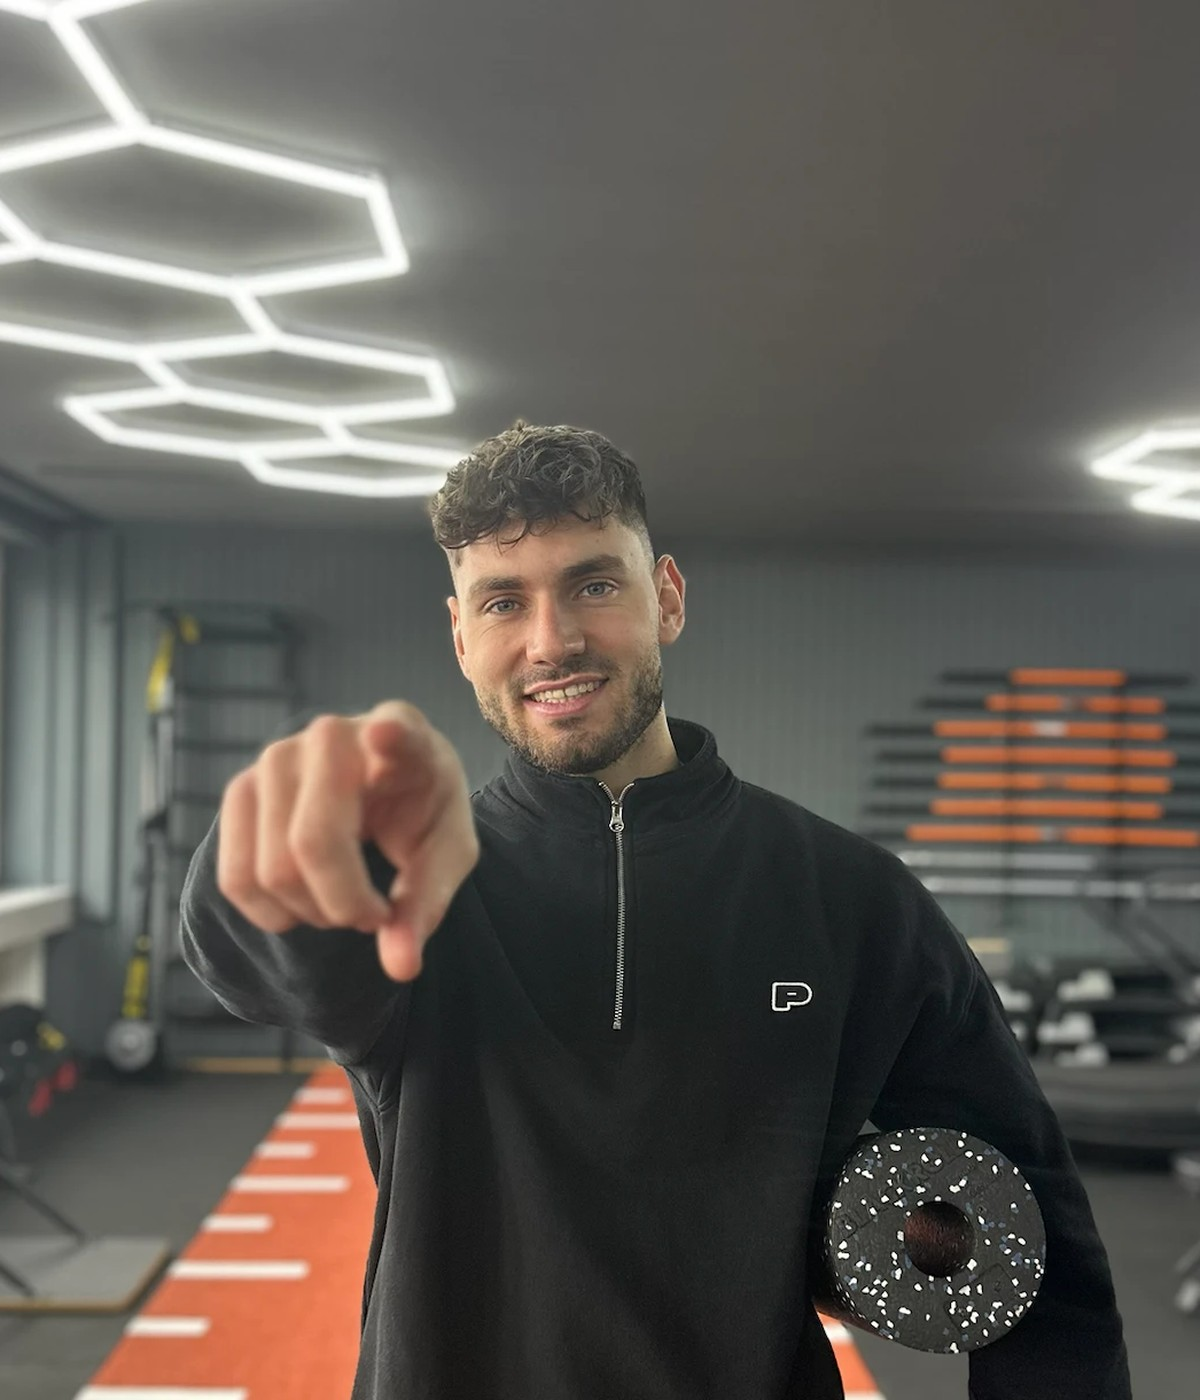
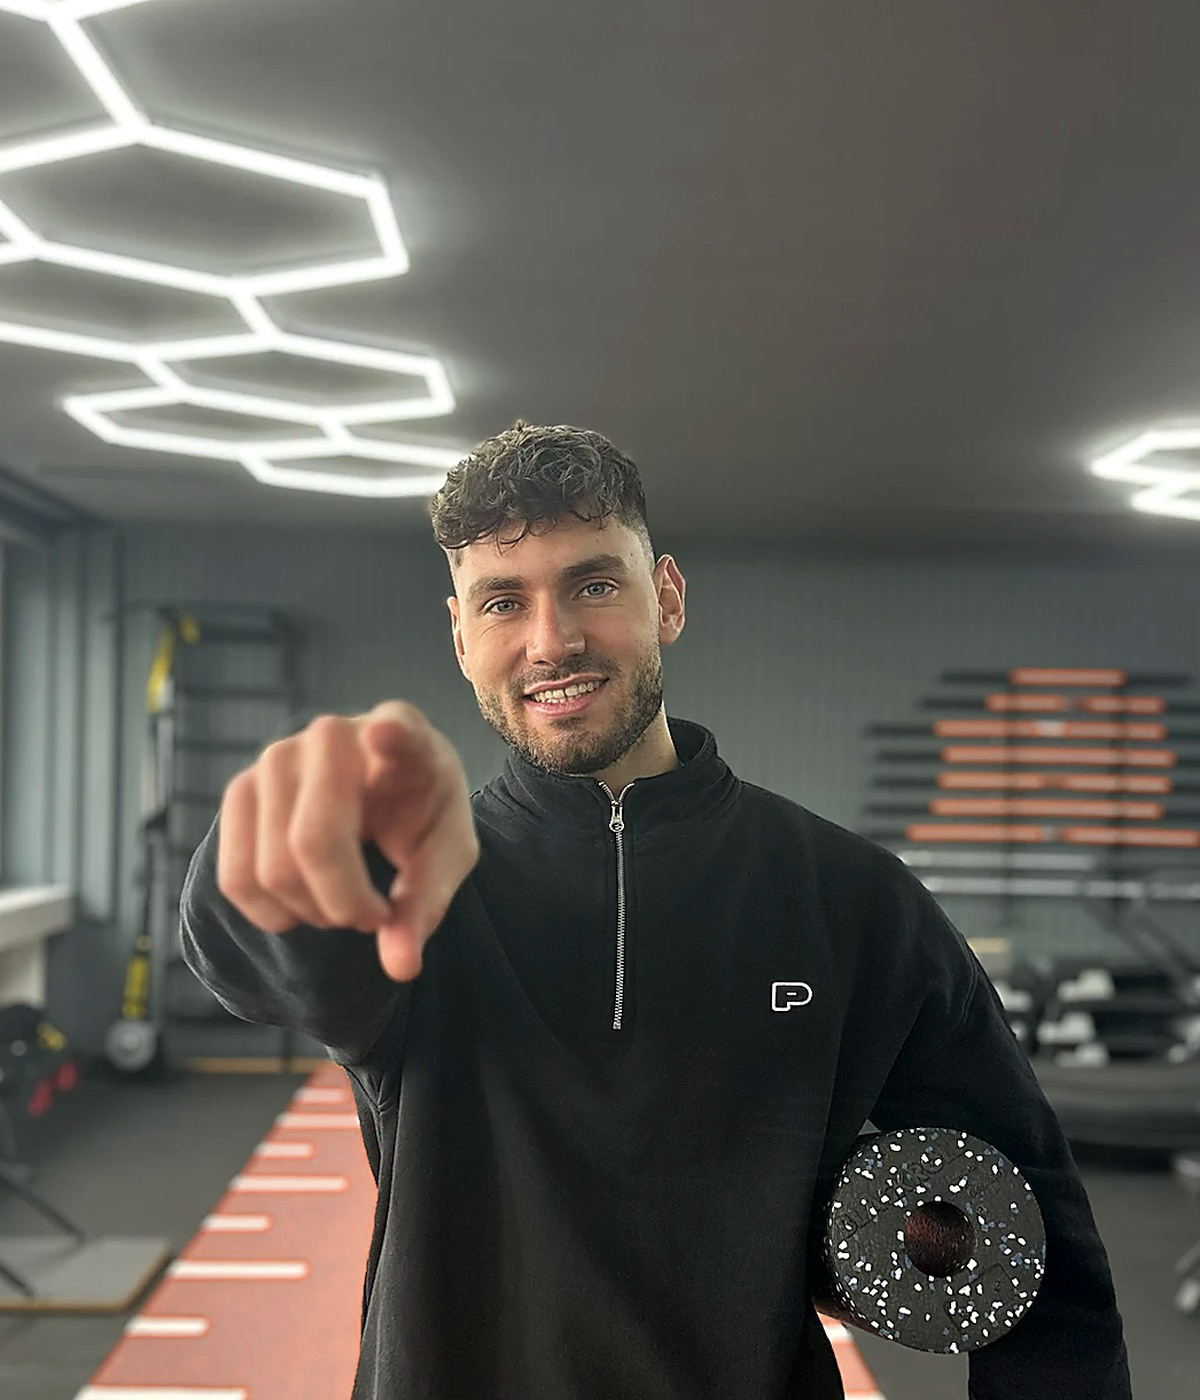
Calm the orange in the studio photographs, rewrite the fifth goal
The sprint track pulled every eye in the invitation photograph. Its
saturation is now cut selectively: only pixels in the orange band and
above a saturation of 120, which leaves skin tones alone since they sit
in the same hue but far less saturated. The same pass runs over the
pointing shot and the closing backdrop, followed by unsharp masking and
a touch of contrast.

The fifth goal said progress in coaching and in the working week, which
named nothing anyone recognises. It now says what more energy actually
buys: a clear head at work, and something left in the evening for family
and friends.

Claude-Session: https://claude.ai/code/session_01X9ucmw29y3B6YrVRvm8FdK

diff --git a/index.html b/index.html
@@ -91,7 +91,7 @@
         <li class="reveal"><h3>Wohlfühlen im eigenen Körper</h3><p>Der Punkt, den die Waage nicht misst und der am Ende am meisten zählt.</p></li>
         <li class="reveal"><h3>Aktiverer, bewussterer Lebensstil</h3><p>Weg von Entweder-oder. Hin zu Entscheidungen, die du bewusst triffst statt sie zu erleiden.</p></li>
         <li class="reveal"><h3>Gewohnheiten, Struktur, Ernährung</h3><p>Der eigentliche Kern der Arbeit: Systeme, die tragen, wenn die Motivation es nicht tut.</p></li>
-        <li class="reveal"><h3>Mehr Energie und Leistungsfähigkeit</h3><p>Damit du nicht nur im Coaching stärker wirst, sondern auch in der Arbeitswoche.</p></li>
+        <li class="reveal"><h3>Mehr Energie und Leistungsfähigkeit</h3><p>Ein klarer Kopf im Job — und abends noch genug übrig für Familie, Freunde oder das, was dir sonst wichtig ist.</p></li>
       </ol>
     </div>
   </section>

diff --git a/CLAUDE.md b/CLAUDE.md
@@ -32,7 +32,10 @@ Ausschließlich aus dem Logo, als Variablen oben in `styles.css`:
 `--ink` `#2e2e2e`, `--ink-mid` `#585858`.
 
 ### Bilder
-Alle unter `img/`, aus den Originalen zugeschnitten:
+Alle unter `img/`, aus den Originalen zugeschnitten. Bei den Studiofotos
+wird zusätzlich das kräftige Orange der Laufbahn zurückgenommen — nur dort,
+wo die Sättigung über 120 liegt, damit Hauttöne unberührt bleiben —, danach
+nachgeschärft:
 
 | Datei | Format | Ort |
 |---|---|---|
